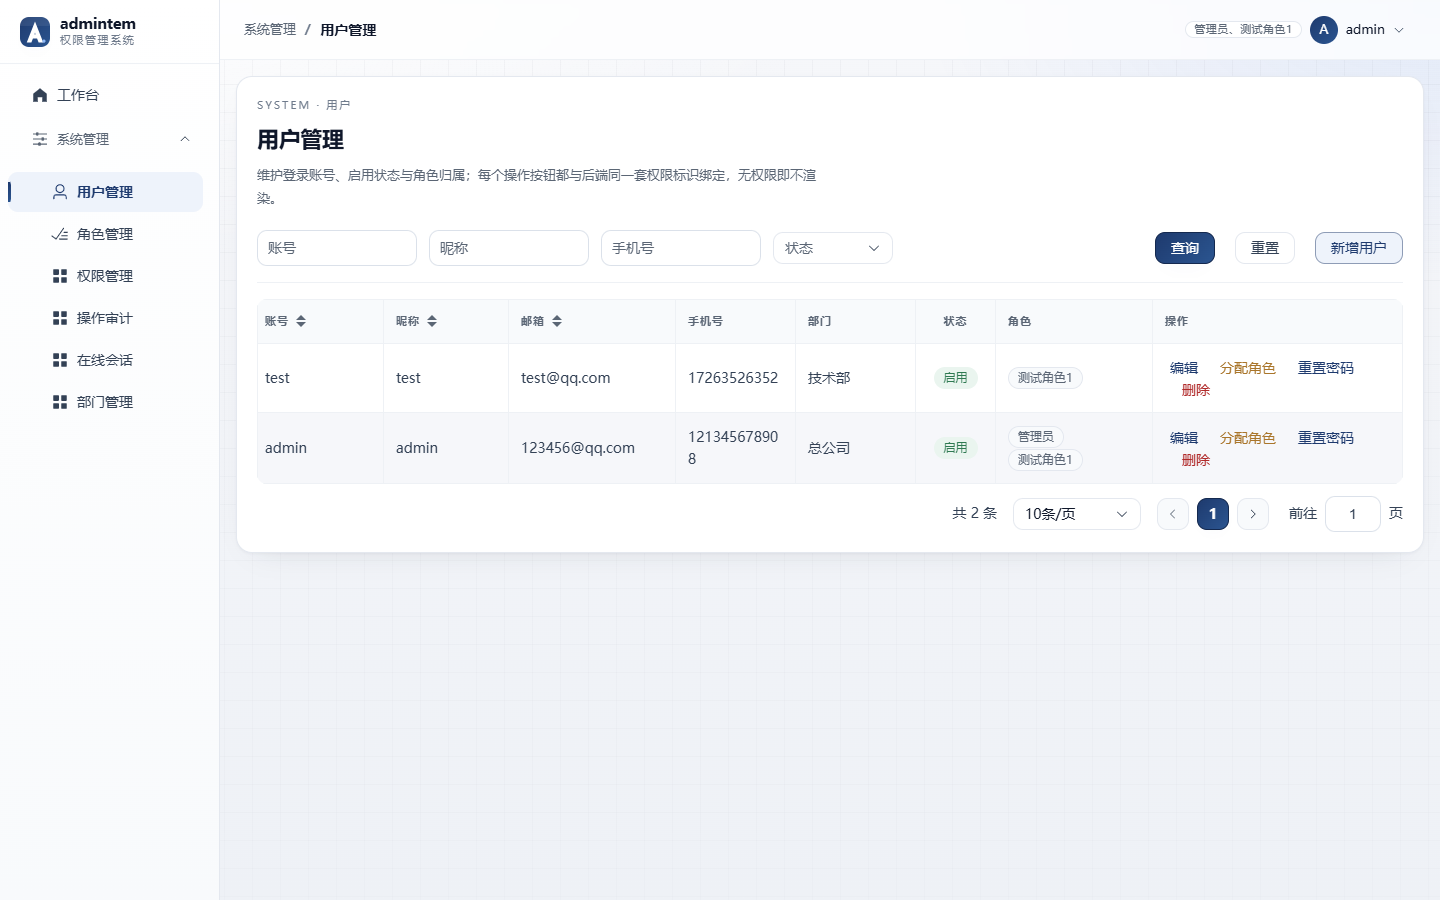
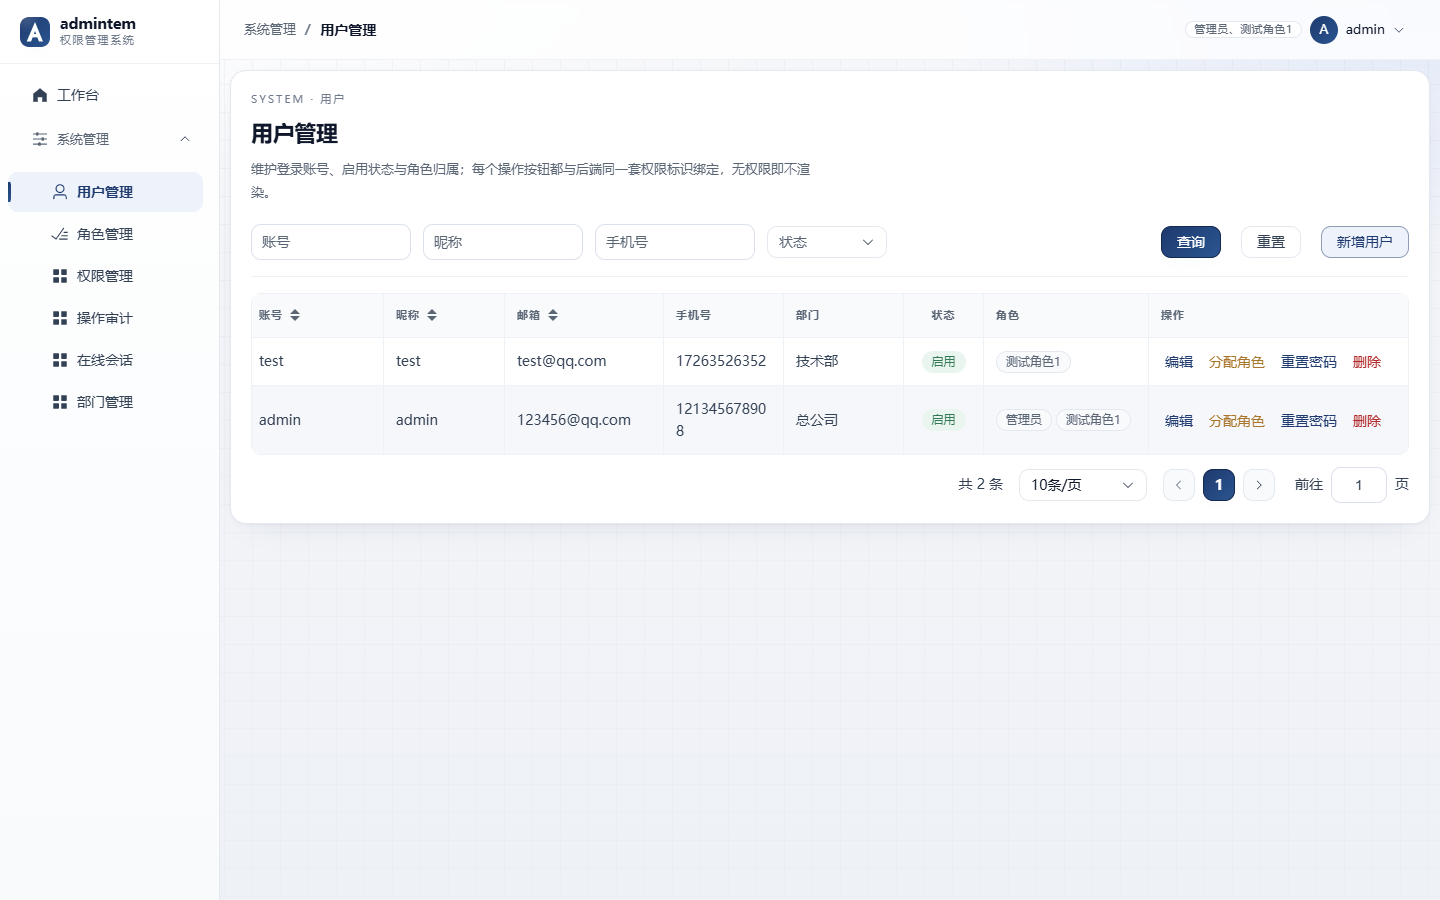
style(ui)：后台内容区四边间距统一 10px；用户操作列 4 个动作单行展示
间距
- 新增令牌 --lc-sp-shell-gap: 10px（两端同值），.layout-main padding 16px → 10px
- 去掉 ≤1280px 时单独缩小到 12px 的分支，保证所有后台页面四边等距
- 实测：部门页/审计页卡片 inset 左 10 / 右 10 / 上 10

操作列
- 用户表操作列加 class-name="cell-actions"，列宽 250 → 260；昵称 120 → 110、邮箱 160 → 145，总宽仍在容器内
- 全局规则：.cell-actions .cell nowrap + link 按钮 0 3px 内边距 + 8px 间距
- 实测：两行数据操作单元格 scrollW === clientW（259/259）、4 个按钮 top 值唯一、行高 48

文档：02（组件语言补操作列/外壳间距）、06（两项实测）
截图：21 张重采（3125 KB）

验证：token 通过、a11y 123/123、桌面 E2E 21、移动 E2E 41、lint 0 告警、双端构建通过

diff --git a/admintem-vue/src/layout/Layout.vue b/admintem-vue/src/layout/Layout.vue
@@ -622,16 +622,14 @@ const roleText = computed(() => {
   background: transparent;
   overflow-y: auto;
   /*
-   * 内容区与「左侧导航 / 顶栏 / 右侧窗口边」的间距（外壳统一控制）。
+   * 内容区与「左侧导航 / 顶栏 / 窗口左右边」的间距（外壳统一控制，所有后台页面一致）。
    *
-   * 历史：曾按需求收紧到 1px（页面卡片自身有 20px 内边距，外层再加 24px 会双层留白）。
-   * V2 视觉升级把外层调到 16px：卡片改为"细边 + 软投影"后需要一点外部留白才不贴边，
-   * 同时 1px 会让卡片投影被容器裁掉。
+   * 历史：曾按需求收紧到 1px（页面卡片自身有 20px 内边距），V2 视觉升级放宽到 16px。
+   * 2026-10-22 按需求统一为 10px（--lc-sp-shell-gap）：四边等距，卡片贴着顶栏与窗口边但不糊在一起。
    *
-   * 想更紧凑只改这一个值（如 var(--lc-sp-2)）；不要在页面里分别加 padding，
-   * 否则会重新变成"每页间距不一致"。
+   * 只改这一个值即可；不要在页面里分别加 padding，否则会重新变成"每页间距不一致"。
    */
-  padding: var(--lc-sp-4);
+  padding: var(--lc-sp-shell-gap);
 }
 
 /* 路由容器与换页入场：只做一次 8px 上移淡入，不与路由异步解析耦合 */
@@ -656,9 +654,6 @@ const roleText = computed(() => {
 
 /* ==================== 窄屏适配 ==================== */
 @media (max-width: 1280px) {
-  .layout-main {
-    padding: var(--lc-sp-3);
-  }
   .layout-header {
     padding: 0 var(--lc-sp-4);
   }

diff --git a/admintem-vue/src/views/userInfo/UserInfo.vue b/admintem-vue/src/views/userInfo/UserInfo.vue
@@ -43,8 +43,8 @@
     <!-- 列头排序：sortable="custom" 交给后端排序（字段名经白名单校验） -->
     <el-table v-loading="loading" :data="list" stripe border @sort-change="handleSortChange">
       <el-table-column prop="userName" label="账号" min-width="120" sortable="custom" />
-      <el-table-column prop="nickName" label="昵称" min-width="120" sortable="custom" />
-      <el-table-column prop="email" label="邮箱" min-width="160" sortable="custom" />
+      <el-table-column prop="nickName" label="昵称" min-width="110" sortable="custom" />
+      <el-table-column prop="email" label="邮箱" min-width="145" sortable="custom" />
       <el-table-column prop="phone" label="手机号" width="120" />
       <el-table-column prop="deptName" label="部门" width="120">
         <template #default="{ row }">{{ row.deptName || "—" }}</template>
@@ -68,7 +68,7 @@
           <span v-if="!row.roleNames || !row.roleNames.length" class="text-muted">-</span>
         </template>
       </el-table-column>
-      <el-table-column label="操作" width="250" fixed="right">
+      <el-table-column label="操作" width="260" fixed="right" class-name="cell-actions">
         <template #default="{ row }">
           <el-button v-perm="'sysAuthUser:editSysAuthUser'" link type="primary" @click="openEdit(row)">
             编辑

diff --git a/admintem-vue/src/styles/components.css b/admintem-vue/src/styles/components.css
@@ -518,3 +518,16 @@
 .el-tree-select__popper .el-tree-node__content {
   height: 32px;
 }
+
+/* ==================== V2：表格操作列单行 ==================== */
+/* 一行放多个 link 按钮时，默认 12px 间距 + 12px 内边距会把 4 个动作挤到第二行。
+ * 约定：操作列加 class-name="cell-actions" 即获得「不换行 + 8px 间距 + 紧凑内边距」。 */
+.el-table .cell-actions .cell {
+  white-space: nowrap;
+}
+.el-table .cell-actions .el-button.is-link {
+  padding: 0 3px;
+}
+.el-table .cell-actions .el-button + .el-button {
+  margin-left: 8px;
+}

diff --git a/admintem-mobile/src/styles/tokens.css b/admintem-mobile/src/styles/tokens.css
@@ -79,6 +79,7 @@
   --lc-sp-5: 20px;
   --lc-sp-6: 24px;
   --lc-sp-7: 32px;
+  --lc-sp-shell-gap: 10px; /* 后台外壳：内容区与侧栏/顶栏/窗口边的间距（按需求固定 10px） */
 
   /* ---------------- 形状与投影 ---------------- */
   --lc-radius-ctl: 10px;

diff --git a/admintem-vue/src/styles/tokens.css b/admintem-vue/src/styles/tokens.css
@@ -84,6 +84,7 @@
   --lc-sp-5: 20px;
   --lc-sp-6: 24px;
   --lc-sp-7: 32px;
+  --lc-sp-shell-gap: 10px; /* 后台外壳：内容区与侧栏/顶栏/窗口边的间距（按需求固定 10px） */
   --lc-sp-8: 40px;
 
   /* ---------------- 形状 ---------------- */

diff --git a/admintem-docs/02-系统设计文档.md b/admintem-docs/02-系统设计文档.md
@@ -605,6 +605,8 @@ V2 的出发点：原「纸面极简」在信息密度上没问题，但**层次
 | 主按钮 | 深蓝渐变 + `-14px` 外发光；悬停上浮 1px、按下回落 |
 | 次按钮 | 白底细边；悬停转主色描边 + 主色浅底 |
 | 表格 | 表头 11px/0.08em 字距 + 次级面；行高 48；首屏 12 行错峰淡入 |
+| 表格操作列 | `class-name="cell-actions"`：不换行 + 8px 间距 + 紧凑内边距，4 个链接动作在 260px 内单行放下 |
+| 外壳间距 | `--lc-sp-shell-gap: 10px`：内容区与侧栏/顶栏/窗口四边等距 |
 | 卡片 | 1px 细边 + card 投影；悬停升为 float（不位移，避免表格抖动） |
 | 侧栏 | 白卡 + 极淡竖向渐变；激活项 = 主色浅底 + 3px 渐变指示条 |
 | 顶栏 | 半透明白 + `backdrop-filter: blur(12px)`；滚动时内容从下方透出 |
